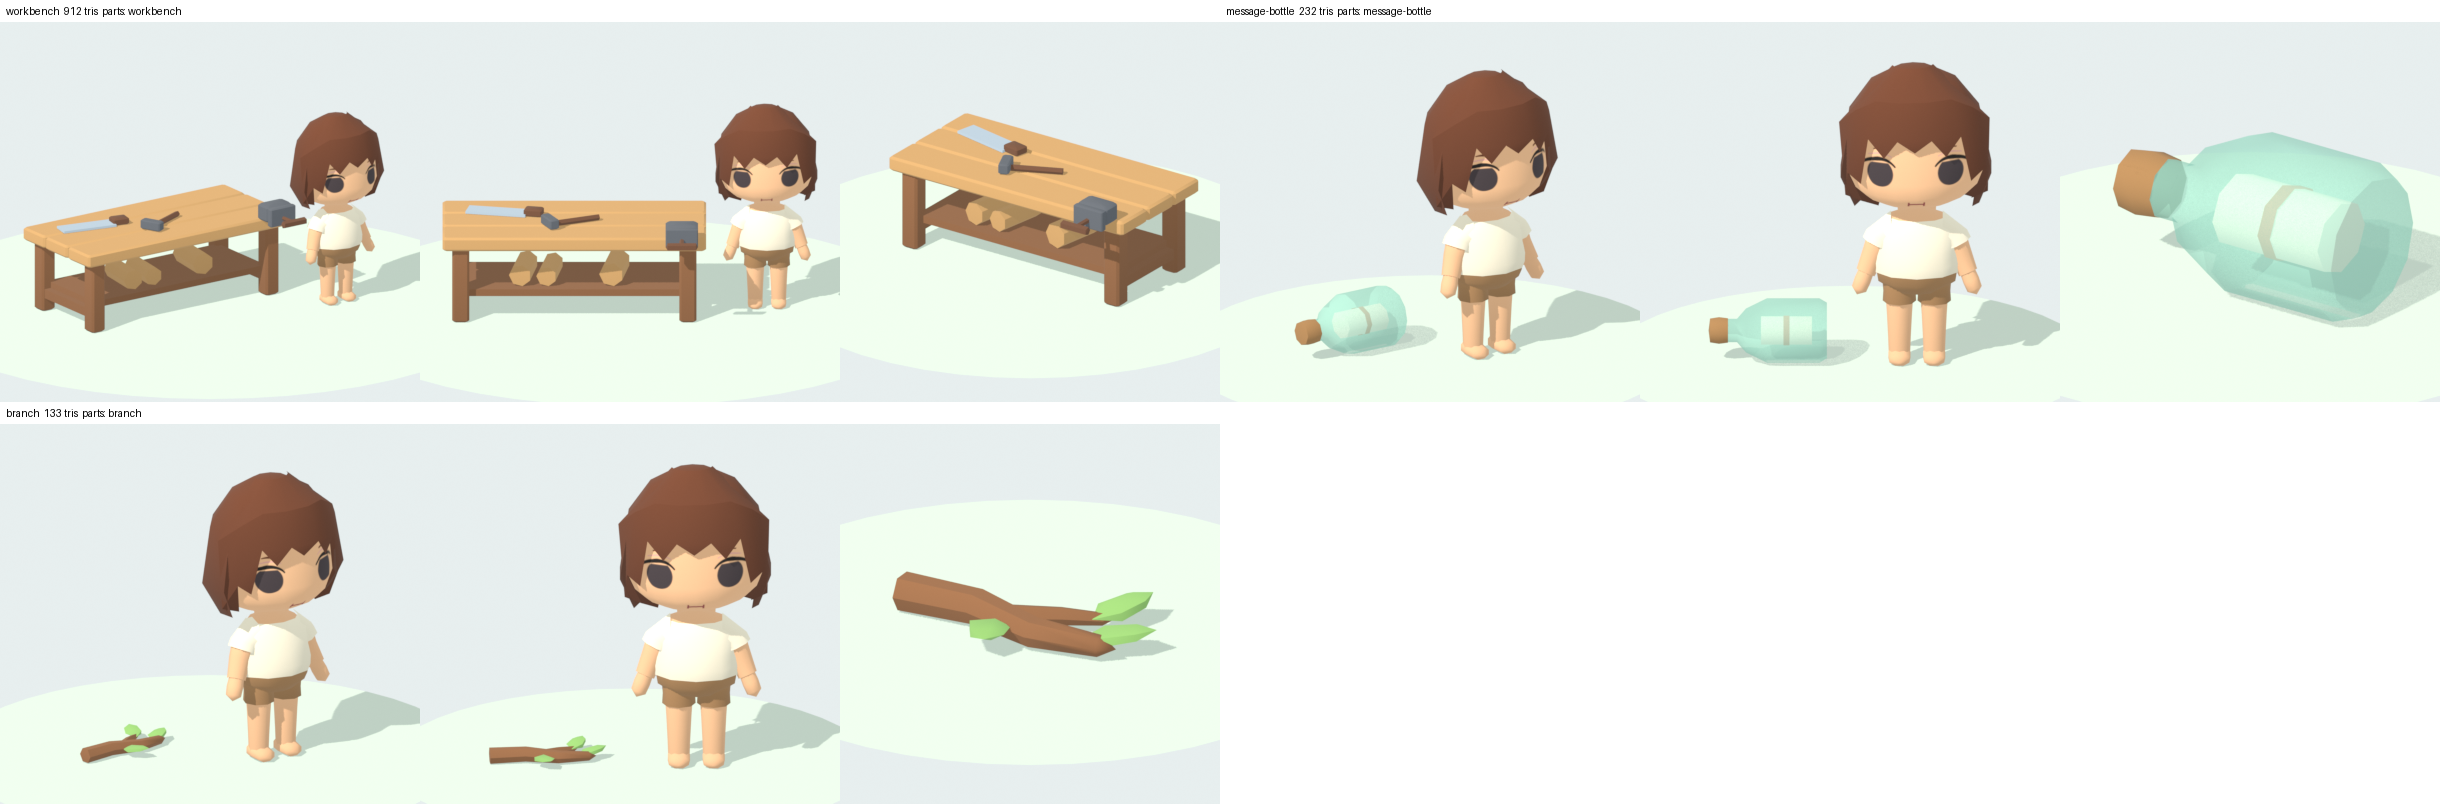
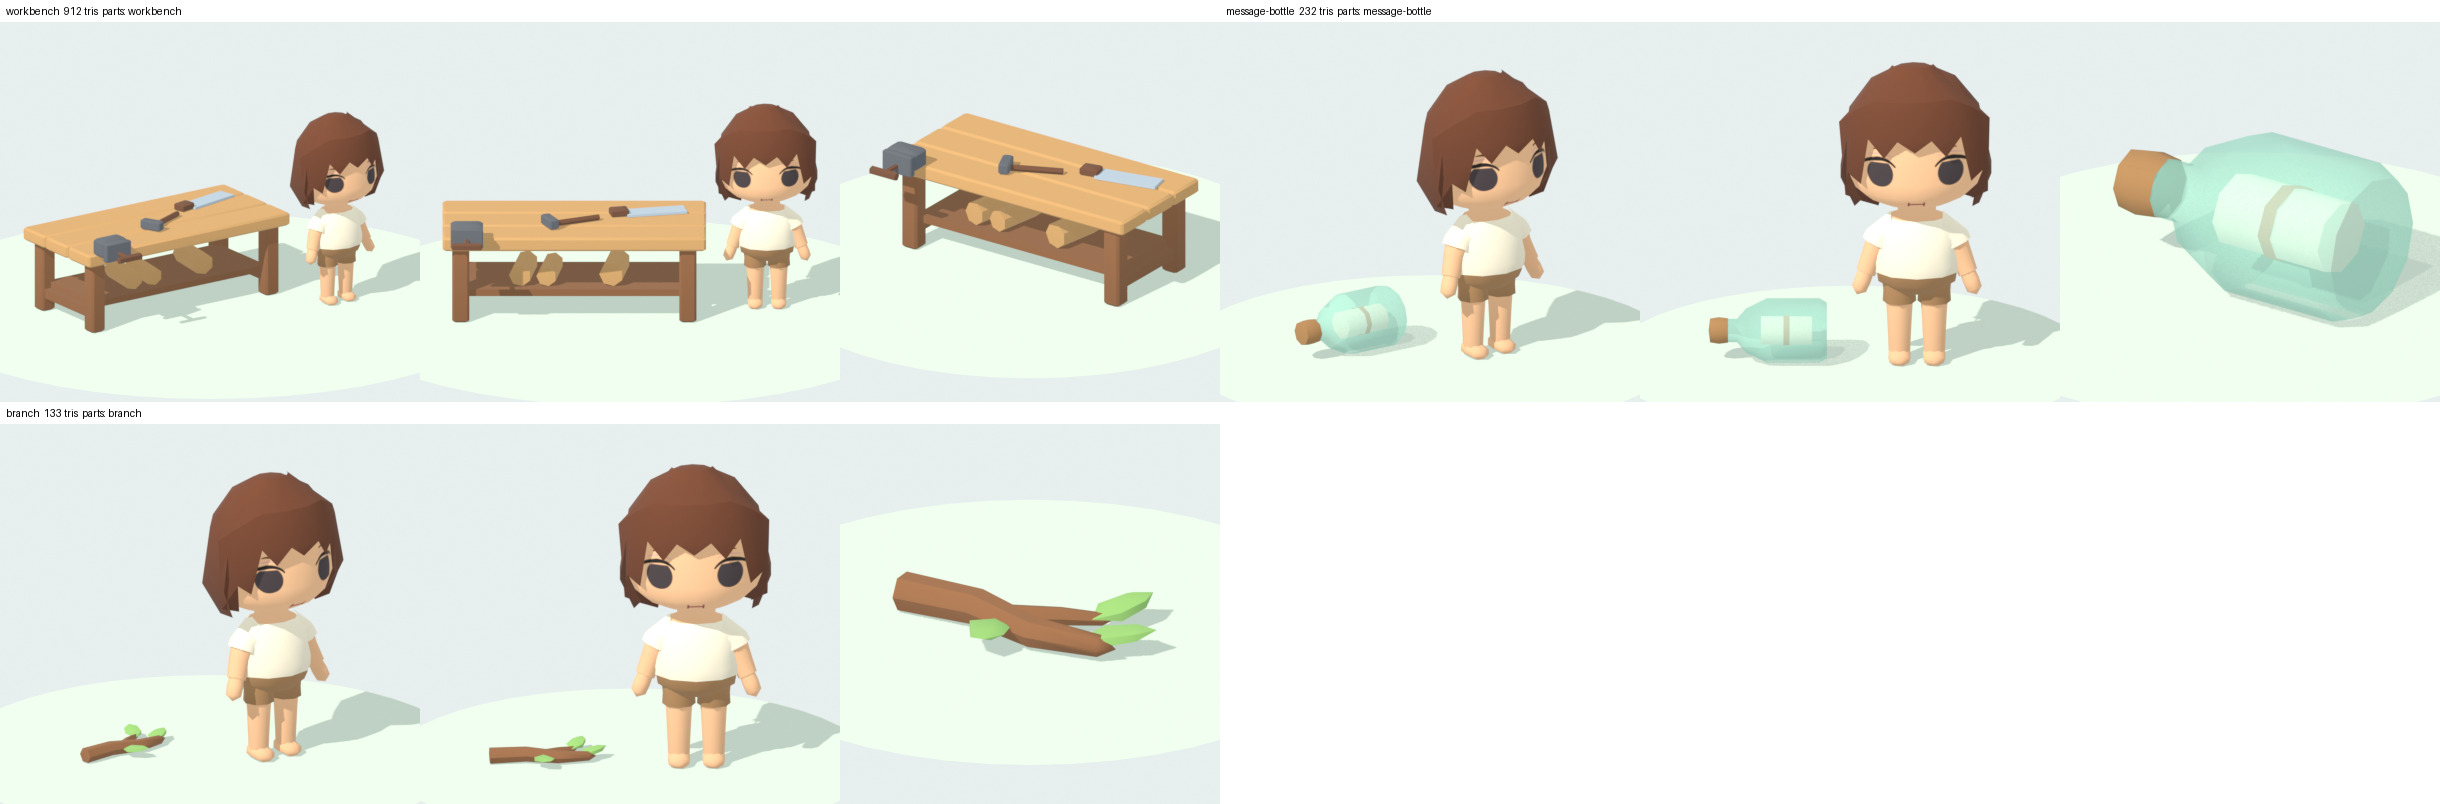
[build] props/enemies evidence (E- WebP): ruins encounter, all eight enemies, starter weapons in hand, workbench in HQ, bottle on the beach; vise moved off the clubhouse crates
Claude-Session: https://claude.ai/code/session_01Ld4ptCxPdsb5feV63kLcxw

diff --git a/web/components/game/crafting/Workshop.tsx b/web/components/game/crafting/Workshop.tsx
@@ -49,7 +49,7 @@ export function Workbench({ player }: { player: React.RefObject<THREE.Vector3> }
   useEffect(() => () => { window.dispatchEvent(new CustomEvent("tsi:workbench-near", { detail: false })); }, []);
   return <Suspense fallback={null}>
     <GLBProp url={`${P}workbench.glb`} scale={1.3} position={[BENCH.x, 0, BENCH.z]} rotation={[0, Math.PI / 2, 0]} />
-    <GLBProp url={`${P}branch.glb`} scale={1.3} position={[BENCH.x - 0.05, 0.585, BENCH.z - 0.4]} rotation={[0, 0.4, 0]} castShadow={false} />
+    <GLBProp url={`${P}branch.glb`} scale={1.3} position={[BENCH.x - 0.1, 0.585, BENCH.z + 0.45]} rotation={[0, 0.4, 0]} castShadow={false} />
     <Piece shadows name="cardboard-pile" position={[BENCH.x, 0, BENCH.z - 1.4]} rotY={Math.PI / 2} />
   </Suspense>;
 }

diff --git a/art/props-enemies/build_props.py b/art/props-enemies/build_props.py
@@ -34,20 +34,21 @@ def workbench():
         pc.mat = "M_Top"
         for x, r in ((-0.25, 0.055), (-0.12, 0.05), (0.2, 0.06)):                             # a couple of logs on the shelf
             lathe(pc, (x, -0.05, 0.157 + r), [(0, -0.12), (r, -0.12), (r, 0.12), (0, 0.12)], n=7, axis=(0.15, 1, 0))
-        pc.mat = "M_Iron"                                    # vise on the front-left corner
-        rbox(pc, (L / 2 - 0.12, -D / 2 - 0.02, TOP + 0.04), (0.16, 0.1, 0.09), ch=0.25)
-        rbox(pc, (L / 2 - 0.12, -D / 2 - 0.085, TOP + 0.03), (0.16, 0.035, 0.1), ch=0.3)
+        V = -(L / 2 - 0.12)                                  # vise on the front-left end (away from the clubhouse crates)
+        pc.mat = "M_Iron"
+        rbox(pc, (V, -D / 2 - 0.02, TOP + 0.04), (0.16, 0.1, 0.09), ch=0.25)
+        rbox(pc, (V, -D / 2 - 0.085, TOP + 0.03), (0.16, 0.035, 0.1), ch=0.3)
         pc.mat = "M_Handle"
-        pc.tube([(L / 2 - 0.12, -D / 2 - 0.1, TOP + 0.02), (L / 2 - 0.12, -D / 2 - 0.2, TOP + 0.02)], [0.012, 0.012], sides=5, tip=False)
-        lathe(pc, (L / 2 - 0.2, -D / 2 - 0.2, TOP + 0.02), [(0, 0), (0.02, 0.01), (0.02, 0.15), (0, 0.16)], n=5, axis=(1, 0, 0))
+        pc.tube([(V, -D / 2 - 0.1, TOP + 0.02), (V, -D / 2 - 0.2, TOP + 0.02)], [0.012, 0.012], sides=5, tip=False)
+        lathe(pc, (V - 0.08, -D / 2 - 0.2, TOP + 0.02), [(0, 0), (0.02, 0.01), (0.02, 0.15), (0, 0.16)], n=5, axis=(1, 0, 0))
         # hammer and saw on the top
         pc.tube([(-0.1, -0.12, TOP + 0.018), (0.12, -0.02, TOP + 0.018)], [0.016, 0.016], sides=5, tip=False)
         pc.mat = "M_Iron"
         rbox(pc, (-0.12, -0.13, TOP + 0.03), (0.05, 0.12, 0.05), ch=0.25, rot=Matrix.Rotation(math.radians(24), 3, "Z"))
         pc.mat = "M_Steel"
-        rbox(pc, (-0.38, 0.1, TOP + 0.008), (0.3, 0.1, 0.012), ch=0, rot=Matrix.Rotation(math.radians(-12), 3, "Z"))
+        rbox(pc, (0.4, 0.1, TOP + 0.008), (0.3, 0.1, 0.012), ch=0, rot=Matrix.Rotation(math.radians(12), 3, "Z"))
         pc.mat = "M_Handle"
-        rbox(pc, (-0.2, 0.06, TOP + 0.02), (0.09, 0.07, 0.035), ch=0.3, rot=Matrix.Rotation(math.radians(-12), 3, "Z"))
+        rbox(pc, (0.22, 0.06, TOP + 0.02), (0.09, 0.07, 0.035), ch=0.3, rot=Matrix.Rotation(math.radians(12), 3, "Z"))
 
     ob = pe.part("workbench", M, b, sharp=40)
     pe.regrade([ob], (0.75, 1.0))
